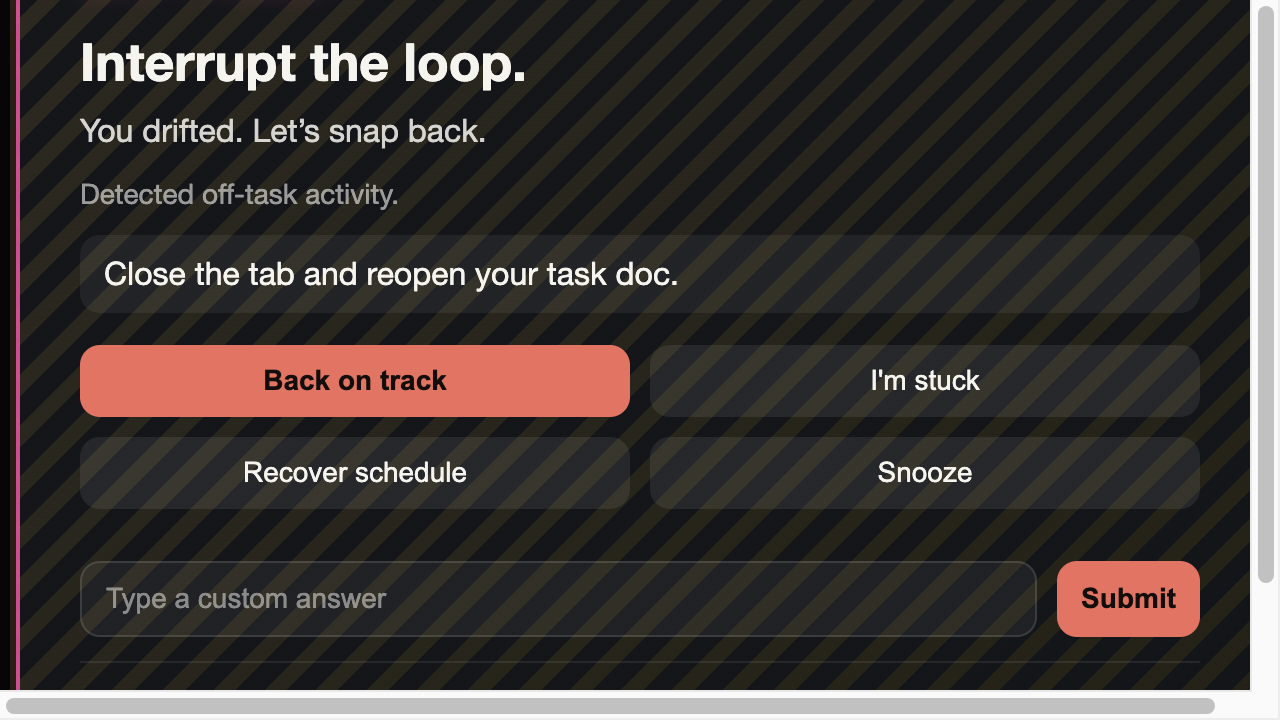
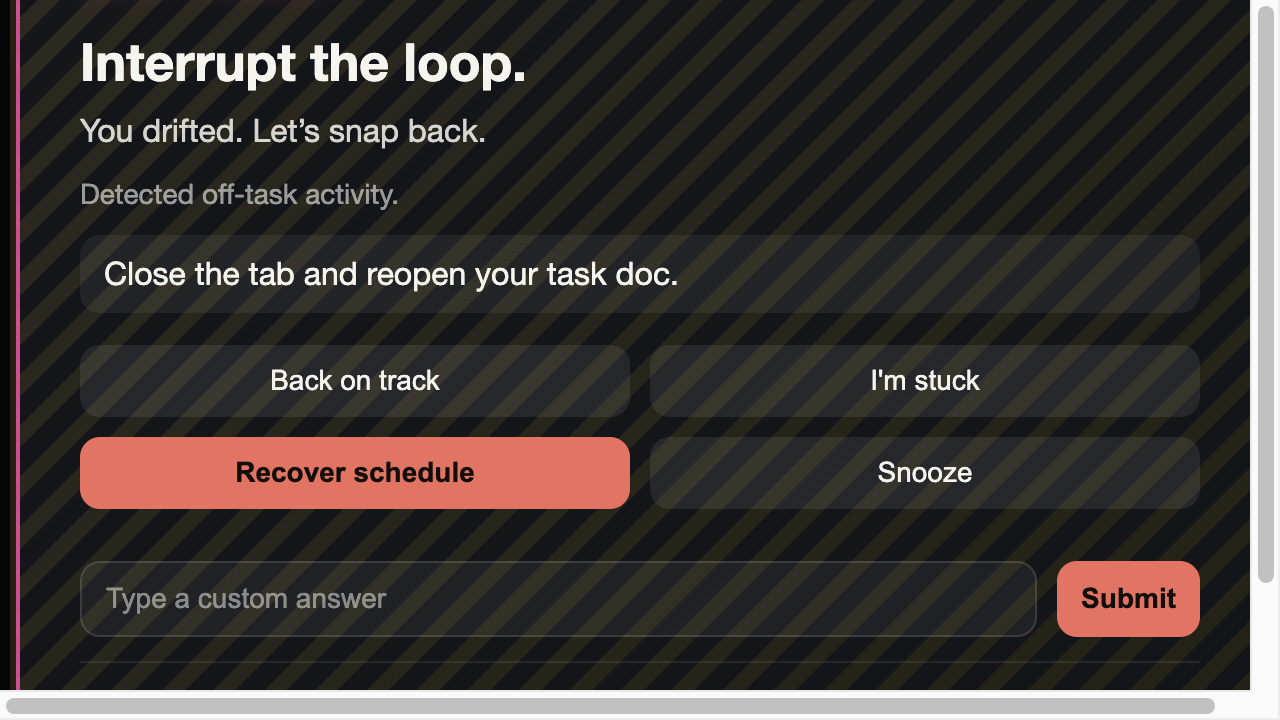
overlay: make DRIFT_PERSIST default to recover + focus primary

Changed region(s): [[0.0625, 0.4583, 0.5, 0.7333]]

diff --git a/overlay/overlay.js b/overlay/overlay.js
@@ -32,6 +32,21 @@ function updatePrimaryLabel(payload) {
   backBtn.textContent = "Back on track";
 }
 
+function updatePrimaryAction(payload) {
+  const raw = payload?.source_event_type || payload?.event_type || payload?.type || "";
+  const eventType = String(raw).toUpperCase();
+
+  // Default: Enter → Back on track.
+  backBtn.classList.add("primary");
+  recoverBtn.classList.remove("primary");
+
+  // Pattern-break: when drift persists, make the recovery path the default action.
+  if (eventType === "DRIFT_PERSIST") {
+    backBtn.classList.remove("primary");
+    recoverBtn.classList.add("primary");
+  }
+}
+
 function updateEventLabel(payload) {
   // Prefer the originating event type when available (used for visual pattern-breaks like DRIFT_PERSIST).
   const raw = payload?.source_event_type || payload?.event_type || payload?.type || "";
@@ -68,6 +83,7 @@ function showOverlay(payload) {
   resetAlignInput();
   updateEventLabel(payload);
   updatePrimaryLabel(payload);
+  updatePrimaryAction(payload);
 
   if (payload.choices && Array.isArray(payload.choices)) {
     overlay.dataset.mode = "align";
@@ -115,6 +131,15 @@ function showOverlay(payload) {
 
   currentPayload = payload;
   shownAt = Date.now();
+
+  // Safety: put keyboard focus on the default primary action so Enter/Space behavior is predictable.
+  // When in align mode, prefer focusing the text input.
+  if (overlay.dataset.mode === "align") {
+    alignText.focus();
+  } else {
+    const primary = overlay.querySelector("button.primary");
+    primary?.focus?.();
+  }
 }
 
 function sendAction(action) {
